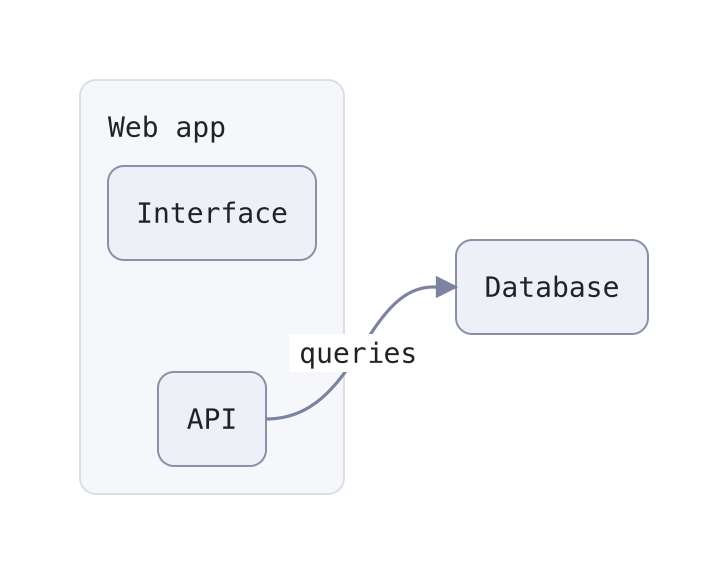
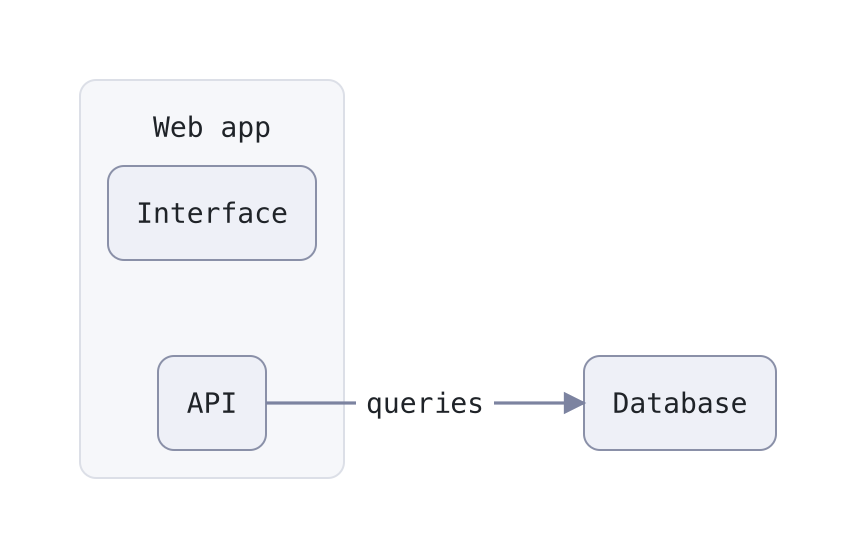
README: Beispiel auf reladraw-0.17-Syntax (even with), Bild mit 0.21 neu gerendert
reladraw 0.17 lehnt `level with` ab (jetzt `even with`); das Beispiel
im README und docs/example.reladraw liefen mit aktueller CLI auf einen
Fehler. Abstand (gap: 10) und `even with app.api`, damit die Linie
gerade läuft und das Label nichts überdeckt (reladraw check ohne Befund).

Claude-Session: https://claude.ai/code/session_01N2nY4oRmWwmamxXd3XPhxA

diff --git a/README.md b/README.md
@@ -2,7 +2,7 @@
 
 A Claude Code mod that draws ` ```reladraw ` code blocks in Claude's replies as images, right in the terminal.
 
-[reladraw](https://github.com/reladraw/reladraw) is a text language for diagrams where you say where things go (`below`, `right of`, `level with`) instead of leaving the layout to an engine. It sits between Mermaid, which places everything for you, and draw.io, where you place everything by hand. reladraw is made by **Joe Walsh** ([@jpwalsh234](https://github.com/jpwalsh234)); many thanks to him for it. This mod only calls the reladraw command-line tool. It contains none of its code and is not affiliated with the reladraw project.
+[reladraw](https://github.com/reladraw/reladraw) is a text language for diagrams where you say where things go (`below`, `right of`, `even with`) instead of leaving the layout to an engine. It sits between Mermaid, which places everything for you, and draw.io, where you place everything by hand. reladraw is made by **Joe Walsh** ([@jpwalsh234](https://github.com/jpwalsh234)); many thanks to him for it. This mod only calls the reladraw command-line tool. It contains none of its code and is not affiliated with the reladraw project.
 
 Claude Code already ships a built-in mod that does this for Mermaid: `cc-plugin-mermaid` turns ` ```mermaid ` blocks into box-drawing characters. reladraw-view is the same idea for reladraw, with one difference: reladraw only renders SVG, so the diagram is shown as a real picture via the kitty graphics protocol rather than as text.
 
@@ -16,7 +16,7 @@ node app "Web app"
 node app.ui  "Interface"
 node app.api "API"  below app.ui
 
-node store "Database"  right of app  level with app
+node store "Database"  right of app (gap: 10)  even with app.api
 
 edge app.api -> store  "queries"  from: right  to: left
 ```
@@ -25,7 +25,7 @@ edge app.api -> store  "queries"  from: right  to: left
 ## Requirements
 
 - A terminal with the kitty graphics protocol: [Ghostty](https://ghostty.org) or [kitty](https://sw.kovidgoyal.net/kitty/). Elsewhere the mod shows a one-line placeholder instead of the picture.
-- The reladraw CLI: `npm install -g reladraw`. Any version works: the mod uses `reladraw render` where the CLI has it (after 0.16) and the older `reladraw <file>` form otherwise.
+- The reladraw CLI: `npm install -g reladraw`. Any version works: the mod uses `reladraw render` where the CLI has it (after 0.16) and the older `reladraw <file>` form otherwise. The diagram language itself changed in 0.17 (`level with` became `even with`, among others); the example below needs 0.17 or later.
 - `rsvg-convert` from librsvg: `brew install librsvg` (macOS) or your distribution's `librsvg2-bin`
 - Both are looked up on `PATH`, with `/opt/homebrew/bin` and `/usr/local/bin` added.
 
